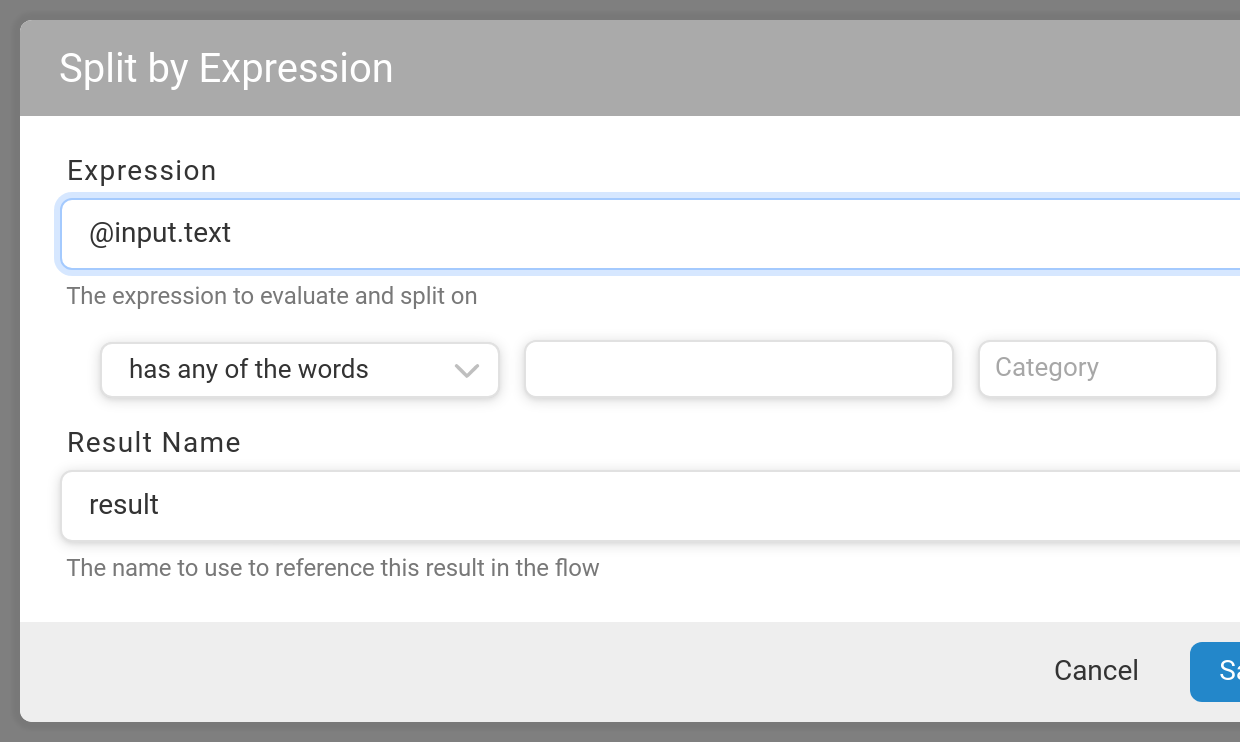
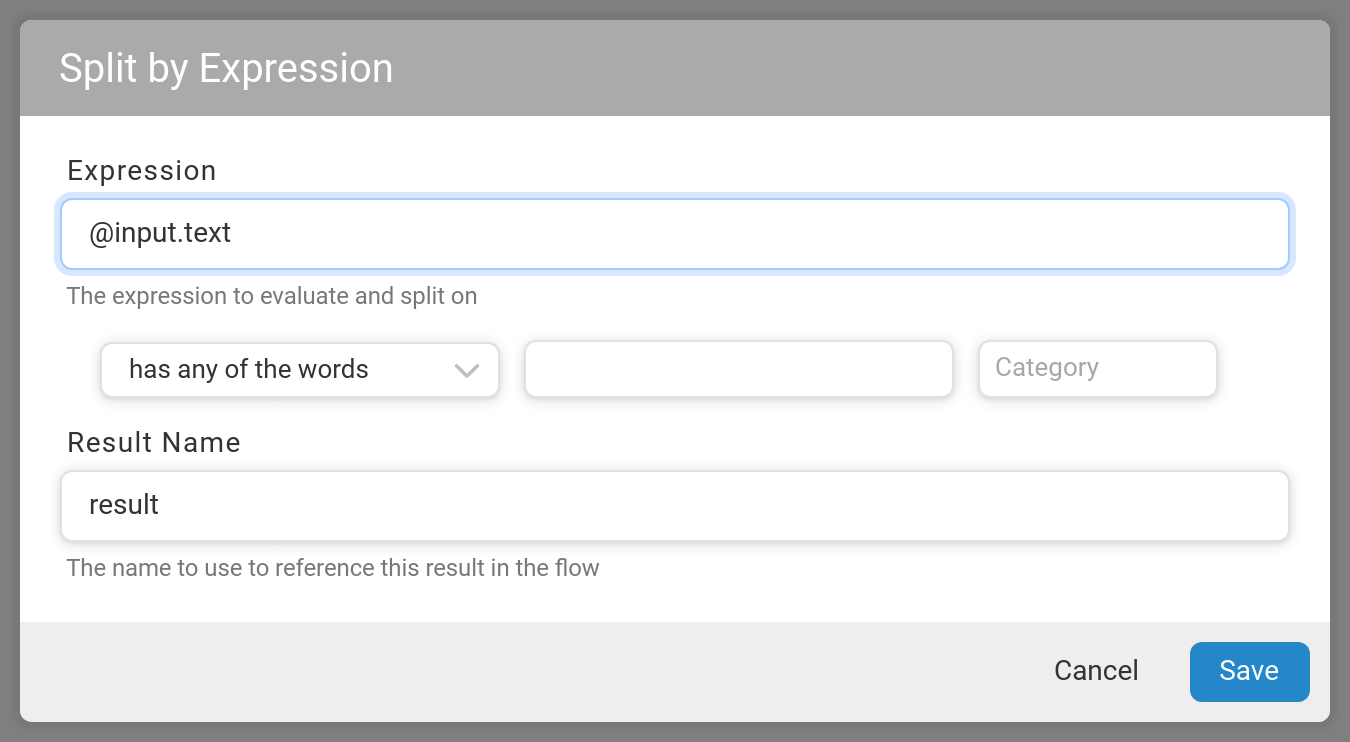
Fix screenshot for split by expression

diff --git a/test/temba-node-editor.test.ts b/test/temba-node-editor.test.ts
@@ -21,7 +21,9 @@ const assertDialogScreenshot = async (
   const clip = getClip(dialog);
   // Adjust width to show full dialog with proper padding
   const dialogRect = dialog.getBoundingClientRect();
-  clip.width = dialogRect.width + 20; // 10px padding on each side
+  // Use scrollWidth to get the actual content width (including overflow)
+  const contentWidth = Math.max(dialogRect.width, dialog.scrollWidth);
+  clip.width = contentWidth + 20; // 10px padding on each side
   await assertScreenshot(screenshotName, clip);
 };
 
